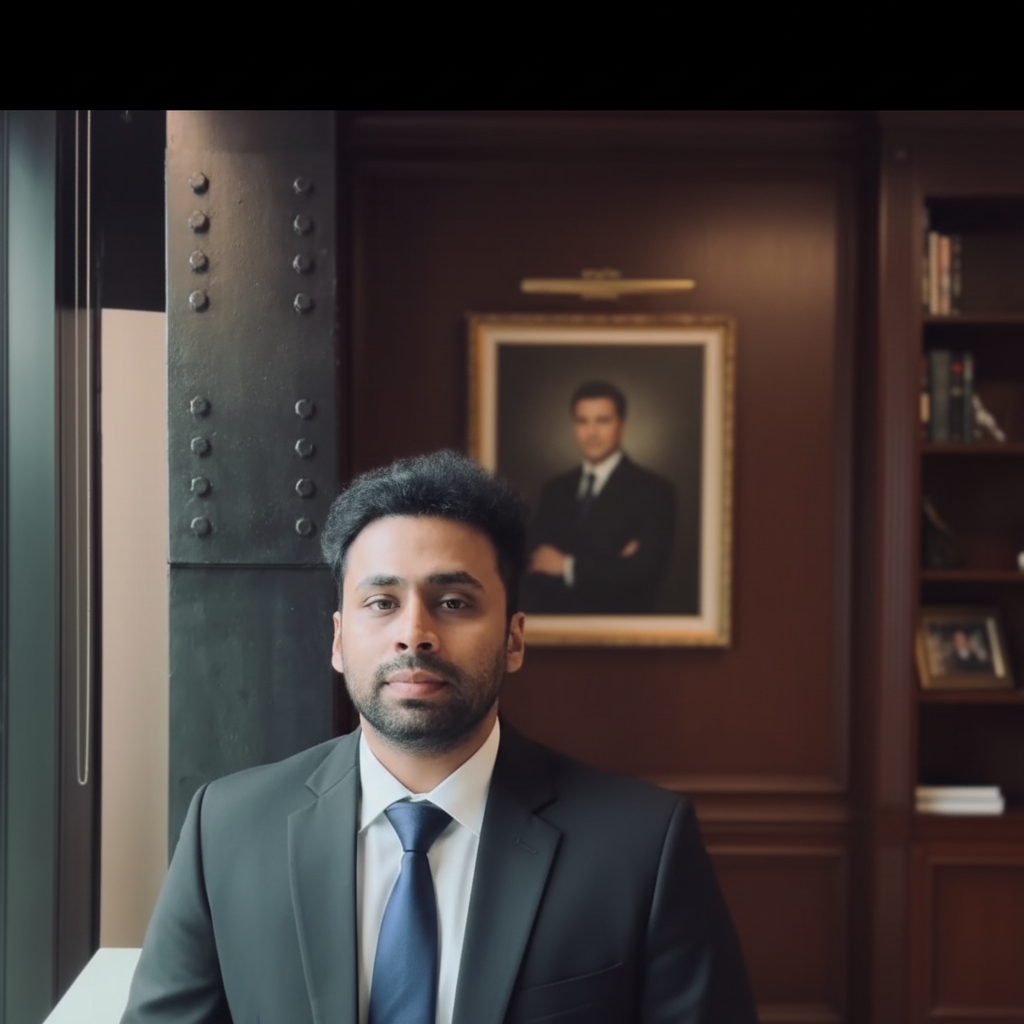
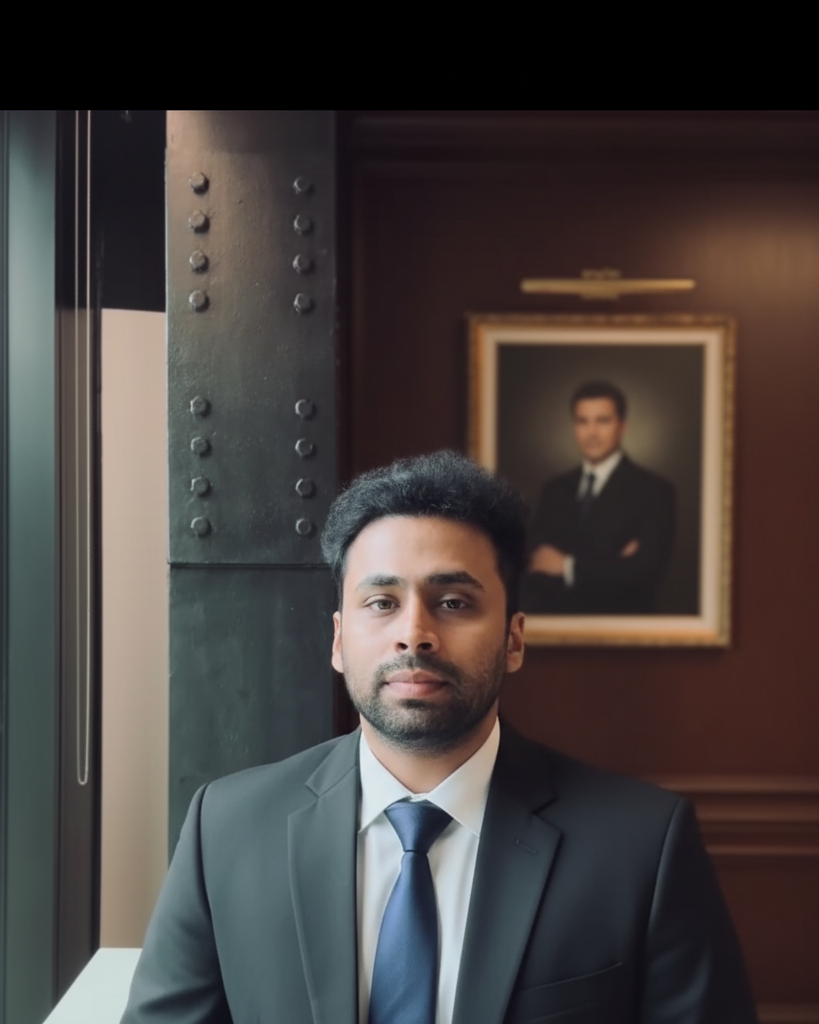
Update portfolio content and add inspiration assets

diff --git a/video/mockup.html b/video/mockup.html
@@ -511,10 +511,20 @@
     .hero-lady {
       position: absolute;
       bottom: 38px;
-      left: calc(46% - 101px);
+      left: calc(52% - 101px);
       transform: translateX(-50%);
-      height: 76vh;
+      height: 64.6vh;
       z-index: 5;
+      pointer-events: none;
+    }
+    .hero-lady::after {
+      content: '';
+      position: absolute;
+      top: 0;
+      right: 2%;
+      width: 25%;
+      height: 100%;
+      background: linear-gradient(to right, transparent, #080808);
       pointer-events: none;
     }
     .hero-lady img {
@@ -523,7 +533,7 @@
       object-fit: contain;
       display: block;
       filter: grayscale(100%) contrast(1.2) brightness(0.9);
-      clip-path: inset(0 155px 20px 0);
+      clip-path: inset(0 2% 3% 0);
       opacity: 0.55;
       -webkit-mask-image: linear-gradient(to right, transparent 0%, transparent 18%, rgba(0,0,0,0.5) 30%, black 42%, black 80%, transparent 100%),
                           linear-gradient(to bottom, transparent 0%, black 5.3%, black 92.3%, transparent 100%);
@@ -1268,6 +1278,7 @@
       .hero-sub-row { padding: 0 7vw; }
       .hero-line1 { transform: translateX(-60px); padding-right: 260px; }
       .hero-typed { min-width: 6em; }
+      .hero-lady { height: 65vh; }
       .hero-logos { padding: 20px 40px 20px 40px; }
       .hero-logos-row { justify-content: flex-start; gap: 24px; }
       #pain .container,
@@ -1291,7 +1302,8 @@
       .hero-social { display: none; }
       .hero-scroll { display: none; }
       .hero-hello-label { text-align: center; padding-left: 0; width: 100%; }
-      .hero-lady { height: 52vh; bottom: 150px; }
+      .hero-lady { height: 52vh; bottom: 150px; left: 50%; }
+      .hero-lady img { clip-path: inset(0 15% 3% 0); }
       .hero-line1 { transform: none; padding-right: 0; white-space: normal; justify-content: center; flex-wrap: wrap; }
       .hero-typed { min-width: unset; text-align: center; }
       .hero-logos { padding: 16px 24px; bottom: 150px; }
@@ -1310,6 +1322,11 @@
       .process-grid { grid-template-columns: 1fr; }
       .case-detail { grid-template-columns: 1fr; }
       .case-content { padding: 32px 28px; }
+    }
+
+    @media (max-width: 480px) {
+      .hero-lady { height: 38vh; bottom: 120px; left: 50%; }
+      .hero-lady img { clip-path: inset(0 8% 3% 0); }
     }
   </style>
 </head>
@@ -1378,7 +1395,7 @@
 
     <!-- Lady anchored to full hero section, not text-wrap -->
     <div class="hero-lady">
-      <img src="inspiration/me3.png" alt="Anandu Sivan" />
+      <img src="inspiration/me.png" alt="Anandu Sivan" />
     </div>
 
     <div class="hero-logos">